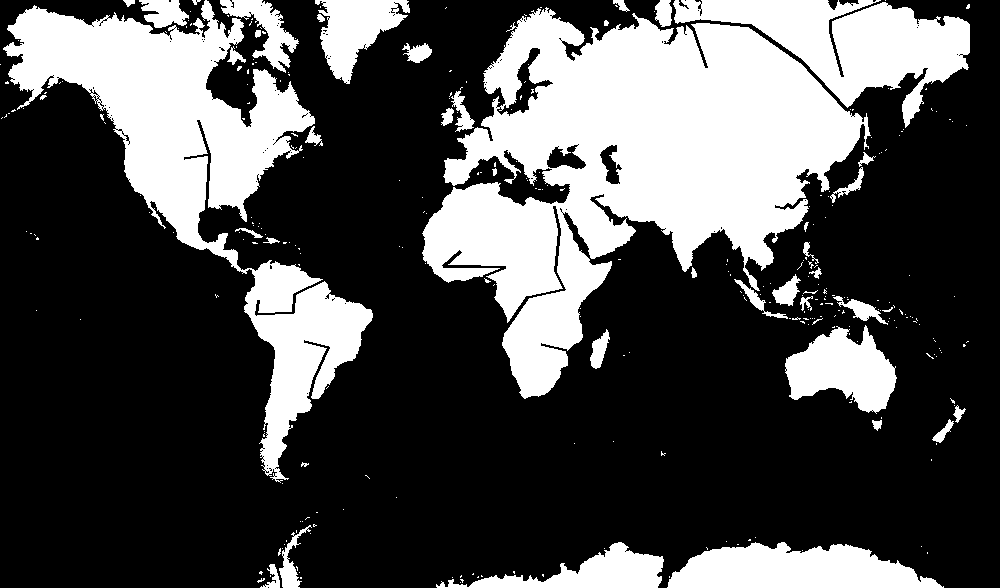
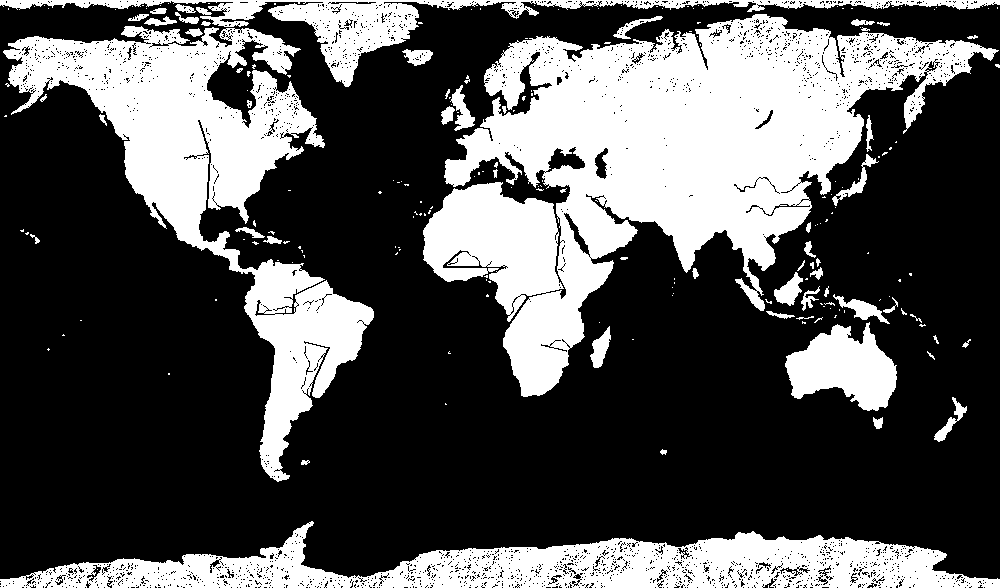
실제 게임 이미지 기반 마스크로 전면 교체 (자동 강 검출 포함), 유실된 강 일부 재보정

diff --git a/data/seaRoute/README.md b/data/seaRoute/README.md
@@ -74,3 +74,16 @@
 1. 사용자가 제공했던 스크린샷들을 다시 하나씩 대조하며 어느 강/항로가 잘못 반영됐는지 재확인
 2. 특히 타이미르 반도 우회 구간은 실제 스크린샷 기반 좌표 없이는 손대지 말 것 (추측 금지)
 3. 이 세션에서의 río(나일콩고, 잠베지, 라인, 아마존, 파라나, 미시시피, 야쿠트, 딕손, 티그리스) 반영 자체는 스크린샷 근거가 있었으므로 상대적으로 신뢰 가능하나, 재검증 권장
+
+## 업데이트 (2026-09-15, 8차) - 실제 게임 이미지 기반으로 마스크 전면 교체
+사용자가 실제 게임 타일(step4, qa-static.line.games)을 HTML+"웹페이지 전체 저장" 방식으로 확보해서 제공. 이 실제 지도 이미지(2995x1768, step4 좌표계와 동일 비율)의 색상(바다=RGB[90,111,102] 기준 색상거리)으로 육지/바다를 직접 분류.
+
+**효과:**
+- 기존 Natural Earth + 메르카토르 역산 방식은 고위도에서 왜곡이 심해 북극항로 등에서 부정확했음(사용자가 오버레이 비교로 확인) -> 실제 게임 이미지 기반으로 전면 교체하여 근본 해결.
+- 강도 대부분 자동으로 마스크에 포함됨(강물 색상이 바다색과 유사해서 자동 검출) - 니제르강, 나일강, 아마존강, 양쯔강 등이 손으로 안 그려도 이미 마스크에 나타남.
+- 북극항로(북동/북서 모두) 이제 인위적인 우회선 없이 실제 데이터로 자동 연결됨.
+- 다만 0.3배 축소본이라 일부 가는 강(중경/양쯔강 일부 구간, 야쿠트인의 마을 강)은 축소 과정에서 유실되어 재차 수동으로 이어붙임.
+
+**한계:**
+- 사용된 이미지가 실제 step4(10000x5881) 전체를 0.3배로 축소한 버전이라, 세부 해상도는 여전히 제한적(약 3.3게임px당 1마스크px). 더 정밀한 마스크가 필요하면 축소 없는 원본 타일 전체를 이어붙여야 함.
+- 쾰른/스트라스부르 좌표는 이번 업데이트로 검증되지 않음(별도 확인 필요).
